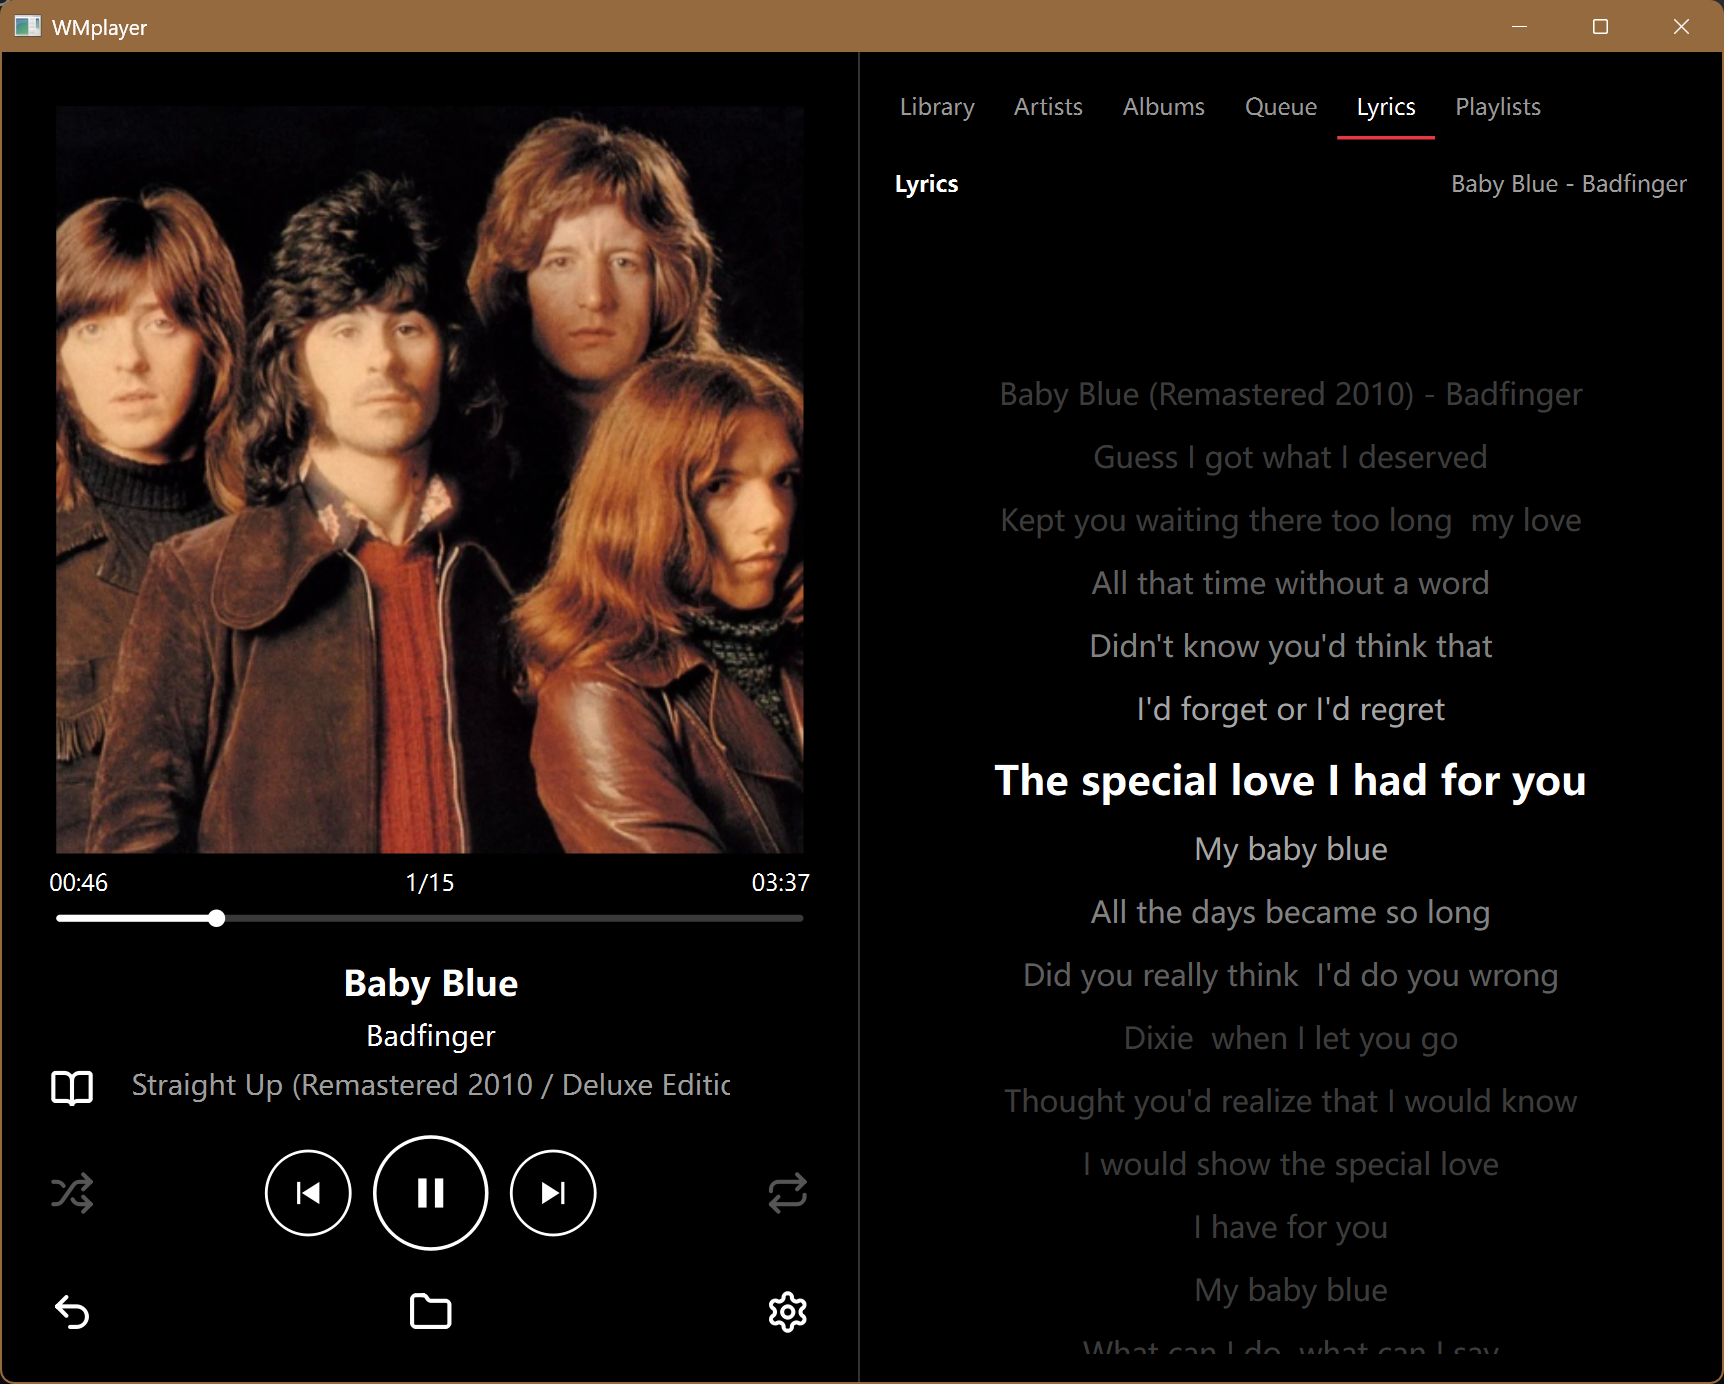
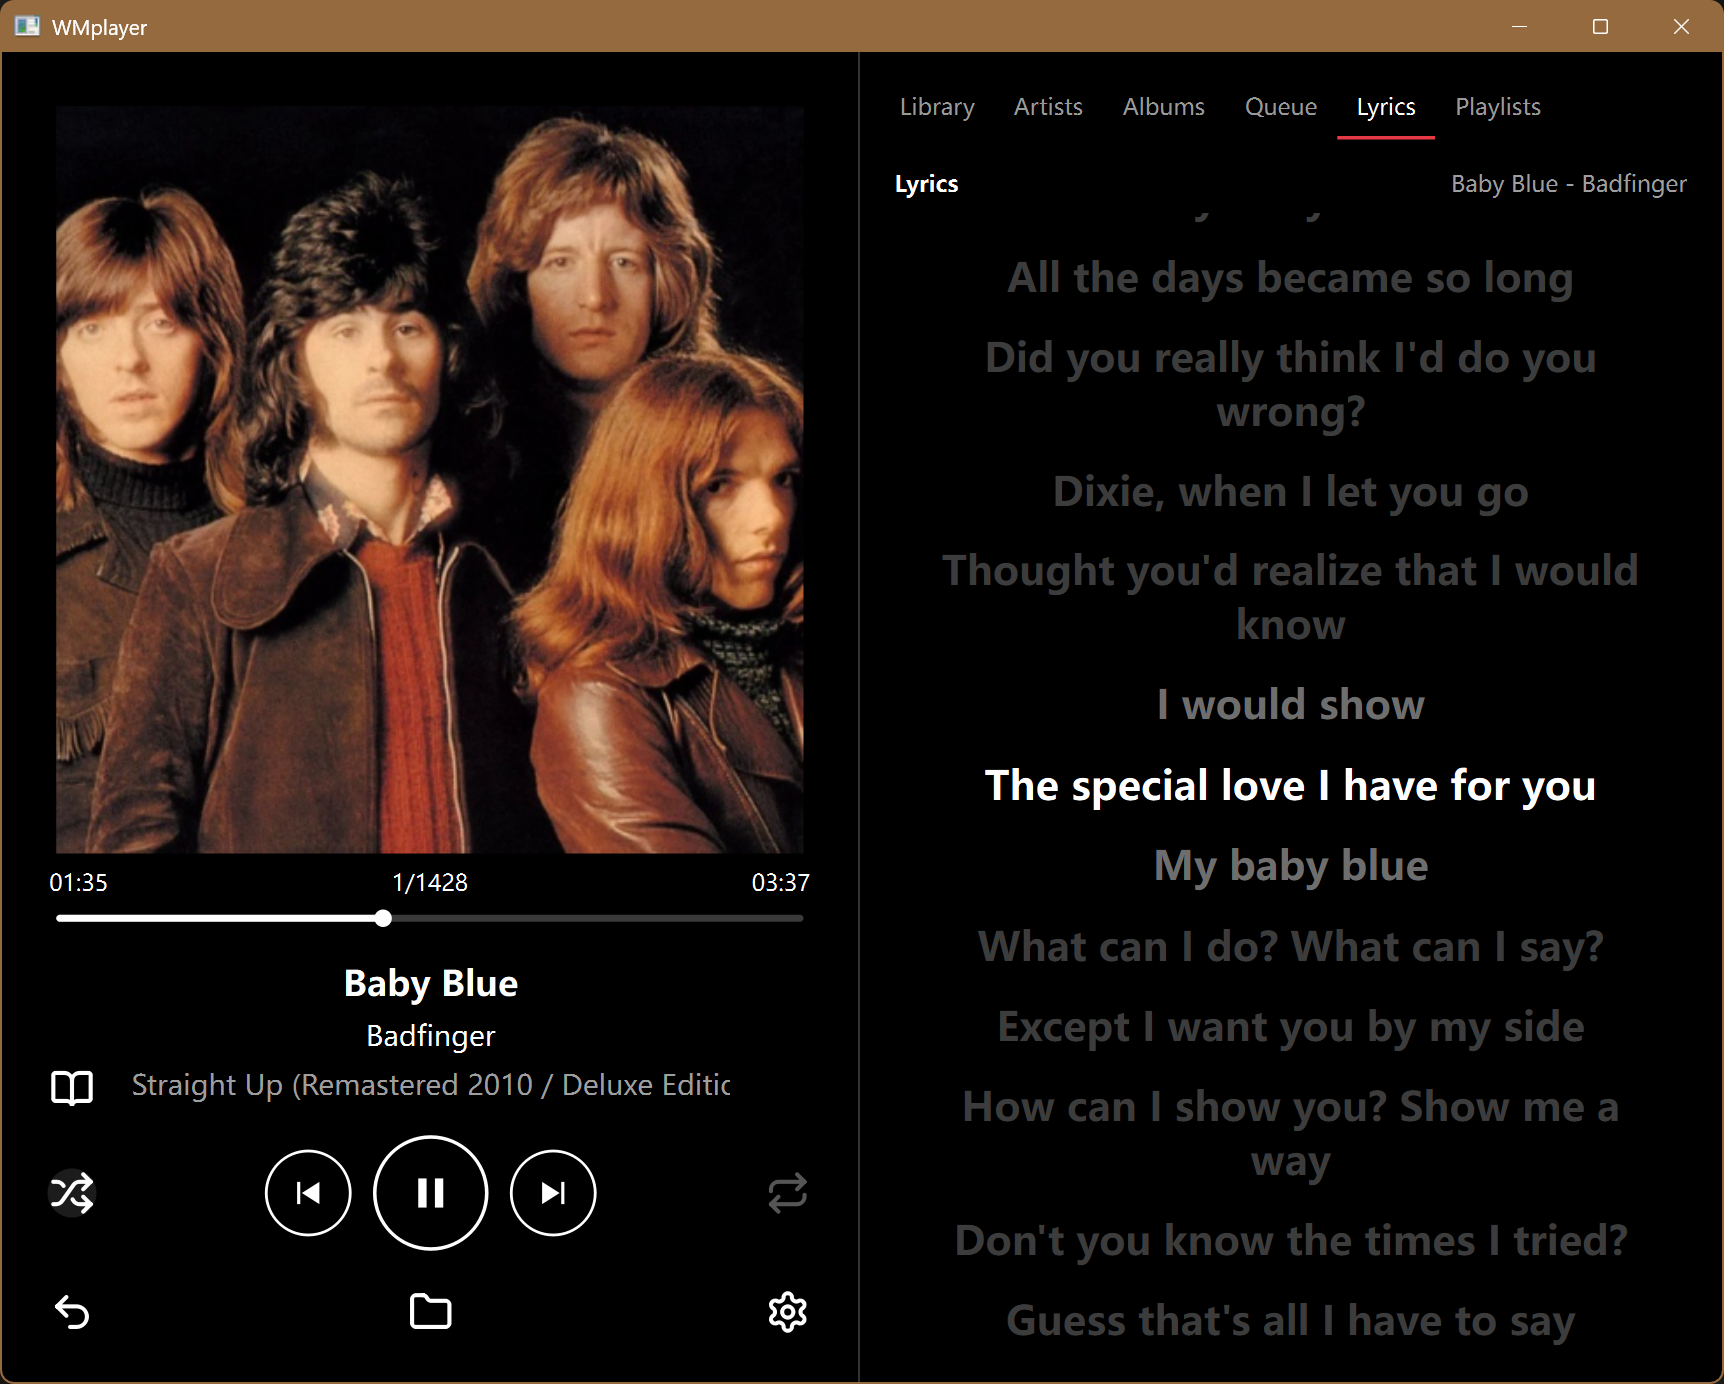
Update lyrics screenshot and document scrolling behavior

diff --git a/README.md b/README.md
@@ -96,7 +96,9 @@ Song.flac
 Song.lrc
 ```
 
-Synced LRC files scroll automatically. Plain text lyric files can still be displayed, but they do not sync to playback.
+Synced LRC files scroll automatically with smooth transitions and a focused highlight on the current line. Click a line to seek to it, or use the mouse wheel or scrollbar to browse the lyrics. The scrollbar hides after 1 second without scrolling, and automatic following resumes after 5 seconds without interaction.
+
+Plain text lyric files can also be displayed and scrolled manually, but they do not sync to playback.
 
 ## Project Structure
 
@@ -238,7 +240,9 @@ Song.flac
 Song.lrc
 ```
 
-带时间戳的 LRC 歌词会自动同步滚动。纯文本歌词也可以显示，但不会跟随播放进度。
+带时间戳的 LRC 歌词会平滑同步滚动，并集中高亮当前句。点击歌词可跳转到对应播放位置，也可使用鼠标滚轮或拖动滚动条浏览歌词。停止滚动 1 秒后滚动条自动隐藏，无操作 5 秒后自动回到当前播放的歌词位置。
+
+纯文本歌词也可以显示和手动滚动，但不会跟随播放进度。
 
 ## 项目结构
 
